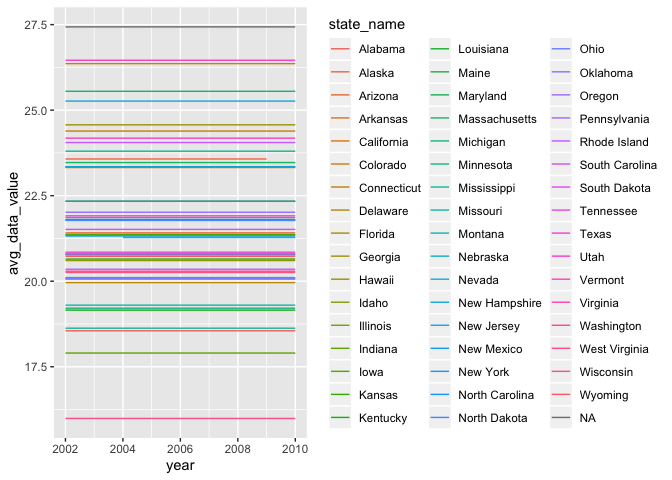
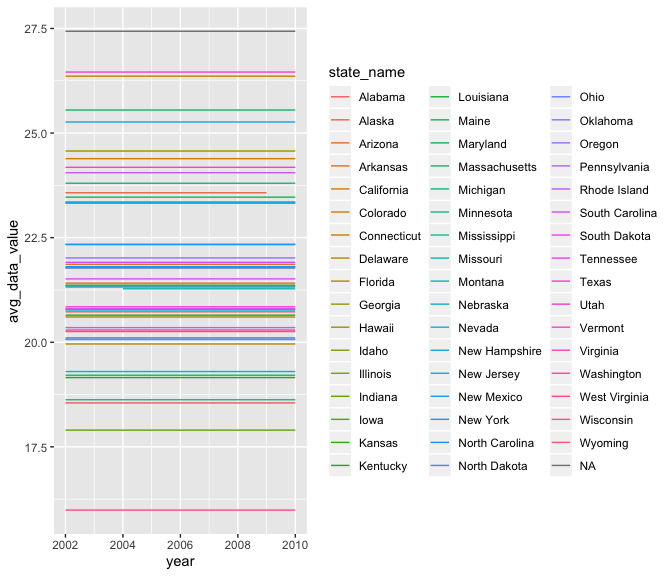
updated code to clean the BRFSS 2010 dataset; added code to first chunk to include settings for the figures

diff --git a/p8105_hw3_lk2761.md b/p8105_hw3_lk2761.md
@@ -19,7 +19,7 @@ num_aisles_df =
   instacart %>%
   count(aisle) %>%
   rename(.data = ., num_items_ordered = n) %>%
-  arrange(desc(num_items_ordered))
+  arrange(desc(num_items_ordered)) 
 ```
 
 ``` r
@@ -35,7 +35,7 @@ theme_minimal() +
        y = "Number of items ordered") 
 ```
 
-![](p8105_hw3_lk2761_files/figure-gfm/unnamed-chunk-1-1.png)<!-- -->
+<img src="p8105_hw3_lk2761_files/figure-gfm/unnamed-chunk-1-1.png" width="90%" />
 
 ``` r
 # Create a table that shows the three most popular items in each of the aisles: baking ingredients, dog food care and packaged vegetables fruits.
@@ -122,7 +122,12 @@ data("brfss_smart2010")
 brfss_smart2010_tidy =
   brfss_smart2010 %>%
   janitor::clean_names() %>%
-    mutate(.data = ., state_name = state.name[match(locationabbr, state.abb)]) %>%
+  filter(.data = ., 
+         topic == "Overall Health",
+         response == "Excellent" | response == "Fair" | response == "Good" | response == "Poor" | response == "Very good") %>% 
+  mutate(.data = ., 
+         state_name = state.name[match(locationabbr, state.abb)],
+         response = factor(response, levels = c("Poor", "Fair", "Good", "Very good", "Excellent"))) %>%
   rename(.data = ., state_abbr = locationabbr, state_county = locationdesc) %>%
   filter(.data = ., topic == "Overall Health") %>%
   select(.data = ., year, state_abbr, state_name, state_county, topic, response, data_value)
@@ -219,7 +224,7 @@ ggplot(excellent_df, aes(group = state_name, x = year, y = avg_data_value, color
   geom_line()
 ```
 
-![](p8105_hw3_lk2761_files/figure-gfm/create%20new%20dataset%20with%20only%20excellent%20responses%20for%20Overall%20Health-1.png)<!-- -->
+<img src="p8105_hw3_lk2761_files/figure-gfm/create new dataset with only excellent responses for Overall Health-1.png" width="90%" />
 
 ``` r
 # This code creates a new dataset that consists of NY state data values and responses to the "Overall Health" topic for 2006 and 2010. 
@@ -245,7 +250,7 @@ ggplot(ny_state_data, aes(group = state_county, x = response, y = data_value, co
     theme(legend.position = "bottom") 
 ```
 
-![](p8105_hw3_lk2761_files/figure-gfm/unnamed-chunk-3-1.png)<!-- -->
+<img src="p8105_hw3_lk2761_files/figure-gfm/unnamed-chunk-3-1.png" width="90%" />
 
 ## Problem 3
 
